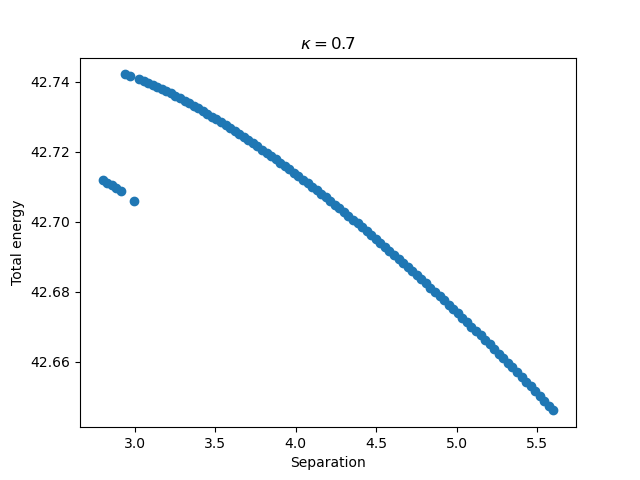
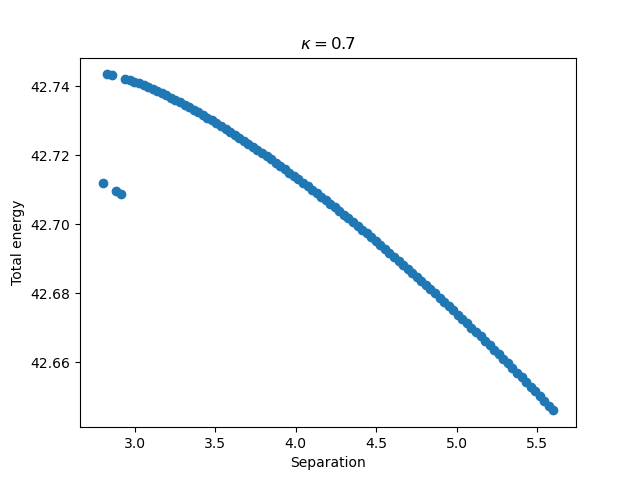
k = 2

diff --git a/solver_rec.py b/solver_rec.py
@@ -14,7 +14,7 @@ tol = 1.49012e-08
 A_idx = int(sys.argv[1])
 K = float(sys.argv[2])
 
-As =4*K * np.linspace(0.5, 1, 100)
+As = K * np.linspace(0.5, 1, 100)
 
 NF = float(sys.argv[3])
 NU = int(sys.argv[4])
